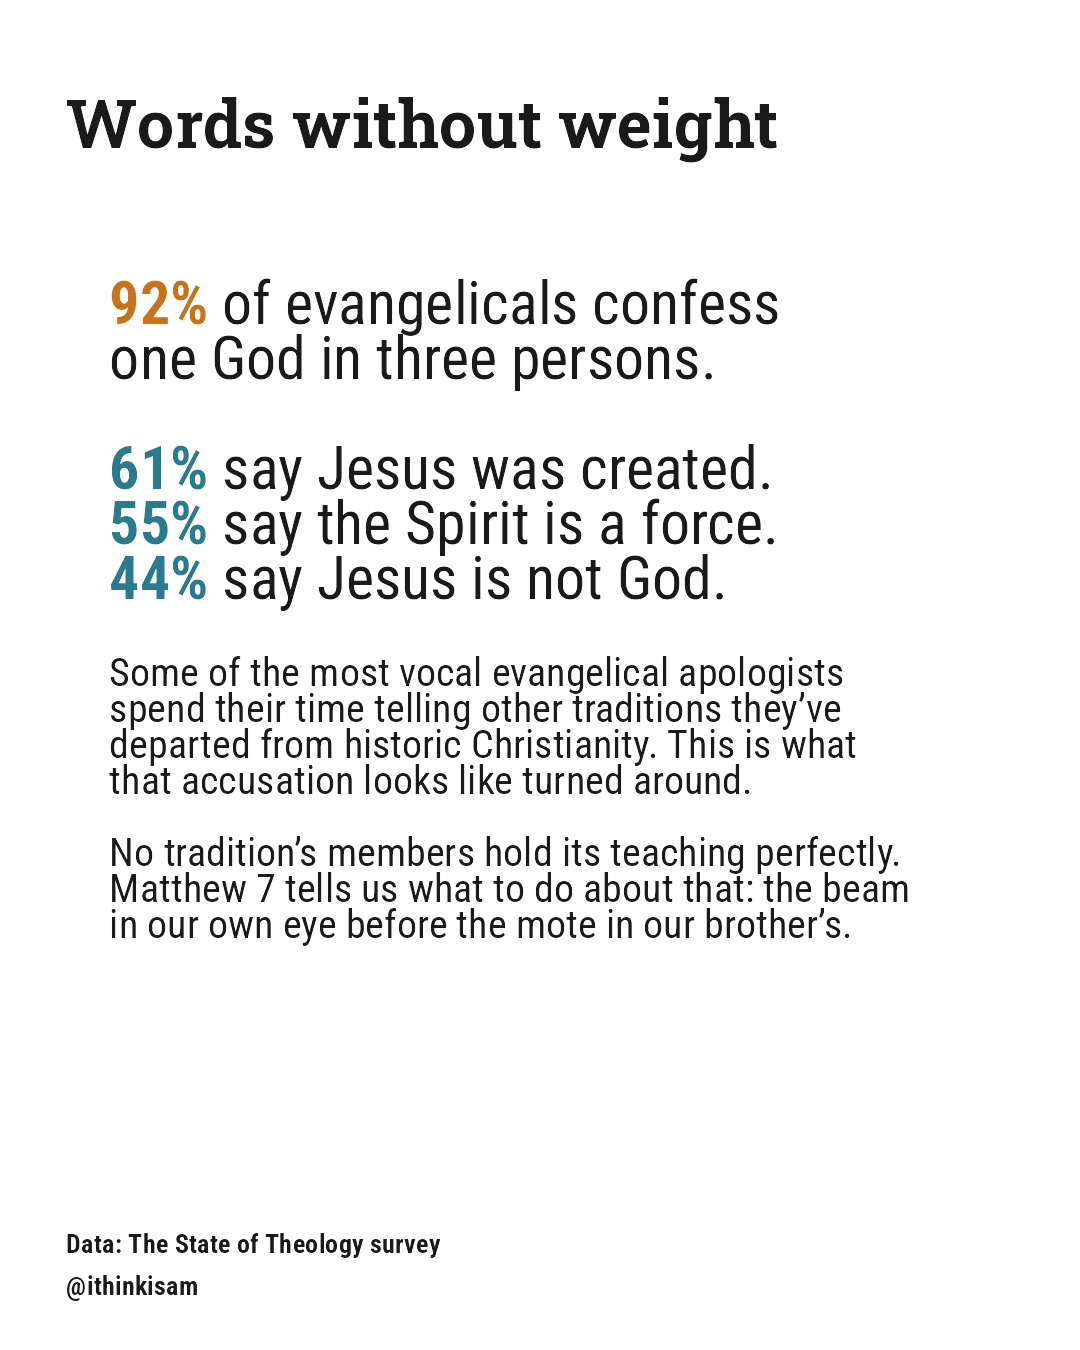
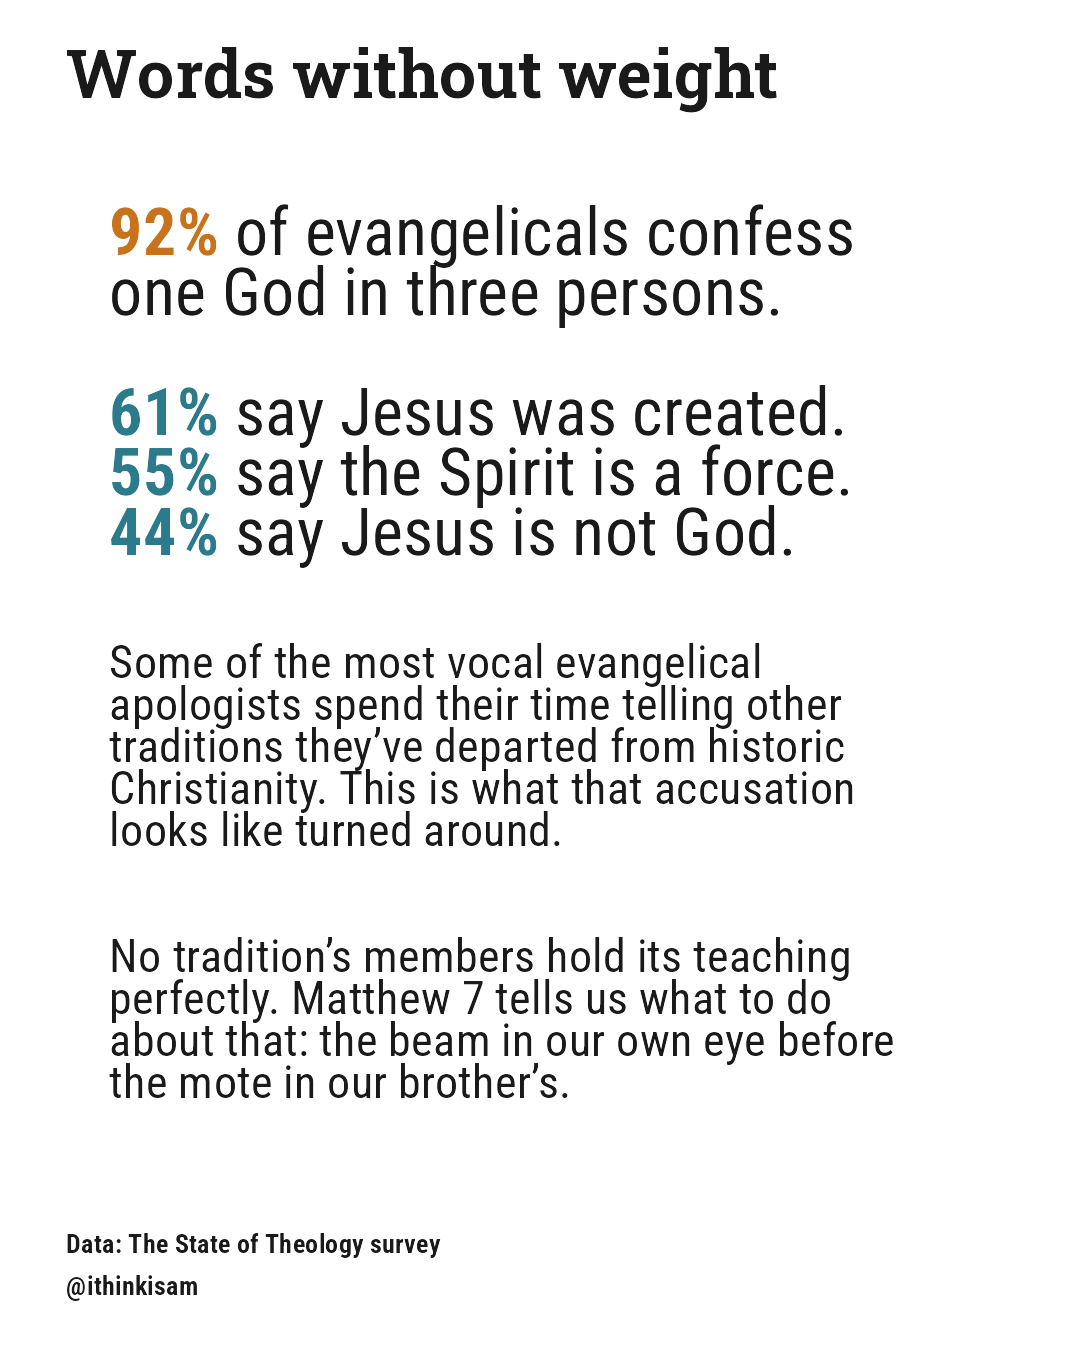
State of Theology: drop scorecard title, fill out text-card whitespace
post1's scorecard promotes its description to the title (drops the punchy
"Firmer, but not firm") and drops the "no statement clears 80%" and
"every statement shown as worded" lines. post1's "Words without weight"
and post2's "Still the beam" text cards move their titles up, size up the
smaller body text, and space out their paragraphs so they fill the canvas
instead of leaving empty space at the bottom.

Changed region(s): [[0.0917, 0.1556, 0.8556, 0.8089], [0.0611, 0.0311, 0.7333, 0.1244]]

diff --git a/src/app/data-explorer/state-of-theology/social/post1/page.tsx b/src/app/data-explorer/state-of-theology/social/post1/page.tsx
@@ -43,7 +43,10 @@ const SLIDES = [
     title: "“The Bible's condemnation of homosexual behavior doesn't apply today.”",
   },
   { file: "jesus_not_god.png", title: "“Jesus was a great teacher, but he was not God.”" },
-  { file: "9_scorecard.png", title: "Firmer, but not firm" },
+  {
+    file: "9_scorecard.png",
+    title: "Share of evangelicals by affiliation who strongly agree or somewhat agree, 2022",
+  },
   { file: "10_thesis.png", title: "Words without weight" },
 ];
 

diff --git a/scripts/social-graphics/social media posts/README.md b/scripts/social-graphics/social media posts/README.md
@@ -160,3 +160,28 @@ inspected, rather than edited blind.
   retightened for the larger sizes — "Across the four Christian traditions
   here:" and one Spirit-not-a-person line needed new breaks to stop
   clipping.
+
+## What changed (round five: scorecard title dropped, text cards fill the canvas)
+
+- **post1's scorecard (`9_scorecard.png`) lost its punchy title.** "Firmer,
+  but not firm" is gone; the description that used to live in the subtitle
+  ("Share of evangelicals by affiliation who strongly agree or somewhat
+  agree, 2022") is now the title itself (34pt — the same >65-char step-down
+  `make_chart` uses for a long title, since this description runs long).
+  The subtitle is now just the color-key legend. Also dropped: "No
+  statement clears 80%." (was the first subtitle line) and "Every statement
+  is shown as the survey worded it; all bars are share who agree." (was the
+  first caption line, above `SRC`) — the caption is now just `SRC`. The
+  gallery page's own caption for this slide
+  (`src/app/.../post1/page.tsx`) was updated to match the new title text.
+- **"Words without weight" (post1) and "Still the beam" (post2) now fill
+  the canvas instead of leaving empty space at the bottom**: title moved up
+  (`plot.title`'s bottom margin and the plot's own top margin both shrunk),
+  the smaller paragraph text bumped again (post1: 24→28pt; post2: 24→28pt),
+  the stats block also bumped in post1 (36→40pt) to stay proportionate, and
+  extra `<br>` breaks added between blocks so the larger text spreads
+  further down the canvas. post2's shared `card()` function backs both
+  `0_intro.png` and `11_closing.png`, so the title-position change applies
+  to both, though only `11_closing.png`'s own body text was resized. Every
+  `<br>` break in both cards was rechecked/retightened at the new sizes —
+  none clip.
